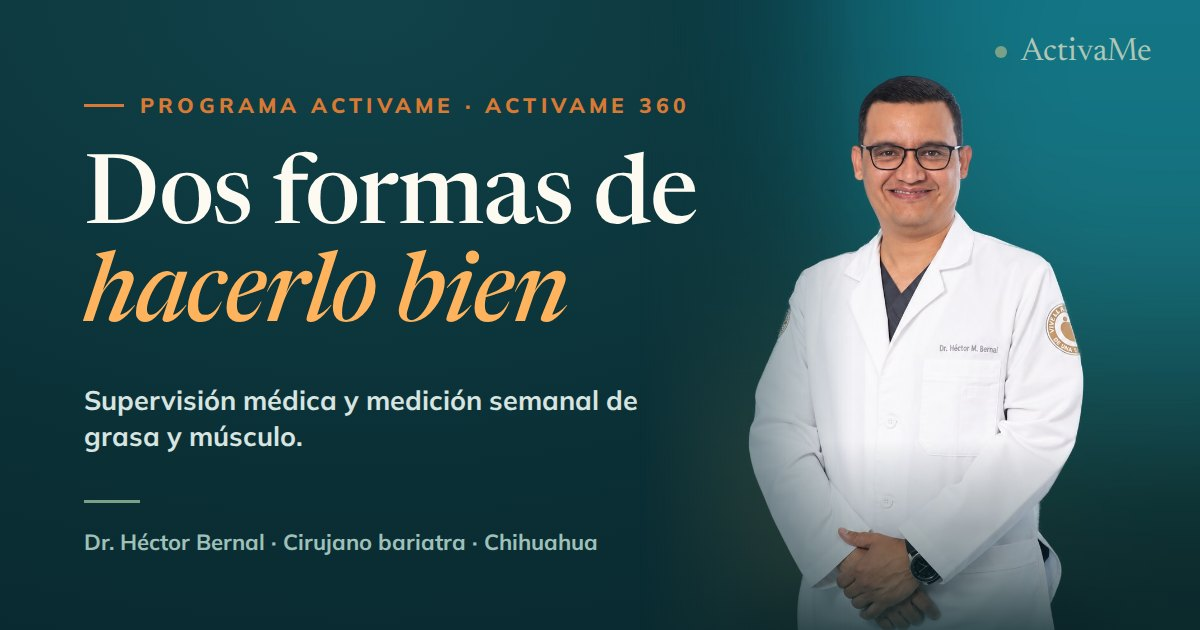
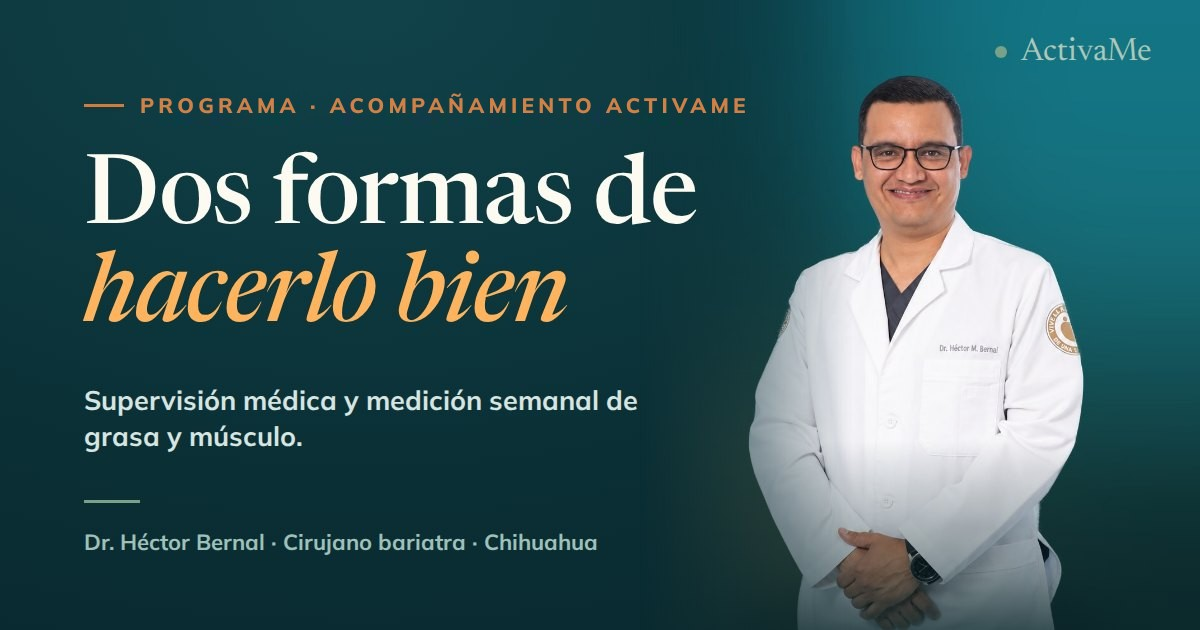
Renombra ActivaMe 360 a Acompañamiento ActivaMe
- index.html y programa/index.html: hero, cabeceras, comparativa, FAQ,
  pasos, title, meta/og/twitter description, og:image:alt y mensajes
  prellenados de WhatsApp. Se conservan el ancla #activame-360, la clase
  .a360 y los data-cta de analítica.
- Tarjetas de dos opciones: lema en <em> ("Tu fisiología como método." /
  "Contigo en cada aplicación.") y título "Acompañamiento ActivaMe".
- Cierre de la comparativa: "El Acompañamiento te cuida mientras usas el
  medicamento. El Programa te prepara para cuando ya no lo uses."
- og-programas.jpg: eyebrow regenerado ("PROGRAMA · ACOMPAÑAMIENTO
  ACTIVAME"); og:image con ?v=2 para refrescar cachés de redes.

Claude-Session: https://claude.ai/code/session_01XgC7FitqPDwxyCZQtsivrR

Changed region(s): [[0.1233, 0.1508, 0.6167, 0.181]]

diff --git a/programa/index.html b/programa/index.html
@@ -3,25 +3,25 @@
 <head>
 <meta charset="UTF-8">
 <meta name="viewport" content="width=device-width, initial-scale=1.0">
-<title>Programa ActivaMe y ActivaMe 360 · Dos formas de hacerlo bien</title>
-<meta name="description" content="Dos formas de bajar de peso con supervisión médica en Chihuahua: el Programa ActivaMe de 10 semanas para activar tu GLP-1 natural, o ActivaMe 360, pago por aplicación si usas tu medicamento.">
+<title>Programa ActivaMe y Acompañamiento ActivaMe · Dos formas de hacerlo bien</title>
+<meta name="description" content="Dos formas de bajar de peso con supervisión médica en Chihuahua: el Programa ActivaMe de 10 semanas para activar tu GLP-1 natural, o el Acompañamiento ActivaMe, pago por aplicación si usas tu medicamento.">
 <link rel="canonical" href="https://consulta.activame.mx/programa">
 
 <!-- Open Graph / WhatsApp preview -->
 <meta property="og:type" content="website">
 <meta property="og:url" content="https://consulta.activame.mx/programa">
 <meta property="og:title" content="Dos formas de hacerlo bien · ActivaMe">
-<meta property="og:description" content="Programa ActivaMe de 10 semanas o ActivaMe 360 pago por aplicación. Supervisión médica, InBody 970s y dinamometría en Chihuahua con el Dr. Héctor Bernal.">
-<meta property="og:image" content="https://consulta.activame.mx/og-programas.jpg">
+<meta property="og:description" content="Programa ActivaMe de 10 semanas o el Acompañamiento ActivaMe con pago por aplicación. Supervisión médica, InBody 970s y dinamometría en Chihuahua con el Dr. Héctor Bernal.">
+<meta property="og:image" content="https://consulta.activame.mx/og-programas.jpg?v=2">
 <meta property="og:image:width" content="1200">
 <meta property="og:image:height" content="630">
-<meta property="og:image:alt" content="Dr. Héctor Bernal. Programa ActivaMe y ActivaMe 360: dos formas de hacerlo bien.">
+<meta property="og:image:alt" content="Dr. Héctor Bernal. Programa ActivaMe y Acompañamiento ActivaMe: dos formas de hacerlo bien.">
 <meta property="og:locale" content="es_MX">
 <meta property="og:site_name" content="ActivaMe">
 <meta name="twitter:card" content="summary_large_image">
 <meta name="twitter:title" content="Dos formas de hacerlo bien · ActivaMe">
-<meta name="twitter:description" content="Programa ActivaMe de 10 semanas o ActivaMe 360 pago por aplicación, con supervisión médica en Chihuahua.">
-<meta name="twitter:image" content="https://consulta.activame.mx/og-programas.jpg">
+<meta name="twitter:description" content="Programa ActivaMe de 10 semanas o el Acompañamiento ActivaMe con pago por aplicación. Supervisión médica en Chihuahua.">
+<meta name="twitter:image" content="https://consulta.activame.mx/og-programas.jpg?v=2">
 
 <link rel="preconnect" href="https://fonts.googleapis.com">
 <link rel="preconnect" href="https://fonts.gstatic.com" crossorigin>
@@ -327,7 +327,7 @@ h2{font-size:clamp(1.75rem,5.6vw,2.7rem);color:var(--teal-deep);max-width:22ch}
 .price-inc{margin-top:1rem;font-size:.92rem;color:#bcd4cf;line-height:1.55;max-width:60ch}
 .price-card .cta{margin-top:1.6rem}
 
-/* ---------- 3 · ACTIVAME 360 ---------- */
+/* ---------- 3 · ACOMPAÑAMIENTO ACTIVAME ---------- */
 .a360{background:radial-gradient(120% 120% at 70% 0%,#11424a 0%,#0a2f35 60%,#08252a 100%);color:var(--cream)}
 .a360 h2{color:#fdfaf2}
 .a360 .sec-intro{color:#bcd4cf}
@@ -556,17 +556,17 @@ footer .aviso{
       <div class="opts">
         <article class="opt">
           <h2>Programa ActivaMe · 10&nbsp;semanas</h2>
-          <p>Todo incluido para activar tu GLP-1 natural y transformar tus hábitos.</p>
+          <p><em>Tu fisiología como método.</em> Todo incluido para activar tu GLP-1 natural y transformar tus hábitos.</p>
           <p class="opt-price">$24,900 en un pago
             <span class="opt-price-sub">o $15,000 + 7 pagos semanales de&nbsp;$1,500</span></p>
           <a href="#programa-activame"><span>Ver el programa</span> <b aria-hidden="true">→</b></a>
         </article>
         <article class="opt">
-          <h2>ActivaMe 360 · pago por aplicación</h2>
-          <p>Tu medicamento con supervisión médica completa: medimos, ajustamos y te acompañamos en cada aplicación.</p>
+          <h2>Acompañamiento ActivaMe</h2>
+          <p><em>Contigo en cada aplicación.</em> Tu medicamento con supervisión médica completa: medimos, ajustamos y te acompañamos.</p>
           <p class="opt-price">desde $1,200 por aplicación
             <span class="opt-price-sub">pagas solo la aplicación que recibes</span></p>
-          <a href="#activame-360"><span>Ver ActivaMe 360</span> <b aria-hidden="true">→</b></a>
+          <a href="#activame-360"><span>Ver el acompañamiento</span> <b aria-hidden="true">→</b></a>
         </article>
       </div>
       <p class="opts-note">
@@ -705,17 +705,17 @@ footer .aviso{
   </div>
 </section>
 
-<!-- ============ 3 · ACTIVAME 360 ============ -->
+<!-- ============ 3 · ACOMPAÑAMIENTO ACTIVAME ============ -->
 <section class="a360" id="activame-360">
   <div class="wrap">
-    <h2 class="pg-title reveal">ActivaMe 360</h2>
+    <h2 class="pg-title reveal">Acompañamiento ActivaMe</h2>
     <p class="pg-tag reveal">Pago por aplicación ·&nbsp;supervisión en cada una</p>
     <h3 class="pg-lema reveal" style="--d:.04s">Si ya usas tu medicamento o estás pensando en iniciarlo, no tienes por qué hacerlo solo.</h3>
     <p class="sec-intro reveal" style="--d:.06s">
       Cada vez más personas se aplican su tratamiento sin supervisión. Bajan de peso, pero no saben
       si están perdiendo grasa o músculo, si su dosis es la correcta o qué hacer cuando algo no se
       siente bien. Si estás por empezar, este es el mejor momento para hacerlo bien desde el primer
-      día. ActivaMe 360 es supervisión médica completa en cada aplicación, y pagas solo la aplicación que recibes.
+      día. El Acompañamiento ActivaMe es supervisión médica completa en cada aplicación, y pagas solo la aplicación que recibes.
     </p>
 
     <h3 class="sub-h reveal">En cada aplicación</h3>
@@ -778,7 +778,7 @@ footer .aviso{
     <p class="remate reveal">Bajar de peso no es lo mismo que bajar de peso bien.</p>
 
     <a class="cta cta--block reveal" href="https://wa.me/526144078343" data-cta="360"
-       data-msg="Hola, me interesa ActivaMe 360">Quiero ActivaMe 360</a>
+       data-msg="Hola, me interesa el Acompañamiento ActivaMe">Quiero el Acompañamiento ActivaMe</a>
   </div>
 </section>
 
@@ -795,7 +795,7 @@ footer .aviso{
           <tr>
             <th scope="col"><span class="sr">Concepto</span></th>
             <th scope="col">Programa ActivaMe</th>
-            <th scope="col">ActivaMe 360</th>
+            <th scope="col">Acompañamiento ActivaMe</th>
           </tr>
         </thead>
         <tbody>
@@ -816,14 +816,14 @@ footer .aviso{
     </div>
 
     <p class="cmp-cierre reveal">
-      ActivaMe 360 te cuida mientras usas el medicamento. El Programa ActivaMe te prepara para cuando ya no lo uses.
+      El Acompañamiento te cuida mientras usas el medicamento. El Programa te prepara para cuando ya no lo uses.
       <em>¿Cuál de los dos necesitas hoy?</em>
     </p>
     <div class="cta-pair reveal">
       <a class="cta" href="https://wa.me/526144078343" data-cta="comparar_programa"
          data-msg="Hola, me interesa el Programa ActivaMe de 10 semanas">Quiero el Programa ActivaMe</a>
       <a class="cta" href="https://wa.me/526144078343" data-cta="comparar_360"
-         data-msg="Hola, me interesa ActivaMe 360">Quiero ActivaMe 360</a>
+         data-msg="Hola, me interesa el Acompañamiento ActivaMe">Quiero el Acompañamiento ActivaMe</a>
     </div>
   </div>
 </section>
@@ -853,7 +853,7 @@ footer .aviso{
         <div class="n">3</div>
         <div>
           <b>Inicias el programa que elegiste</b>
-          <p>Programa ActivaMe o ActivaMe 360.</p>
+          <p>El Programa ActivaMe o el Acompañamiento ActivaMe.</p>
         </div>
       </div>
     </div>
@@ -874,9 +874,9 @@ footer .aviso{
 
     <div class="faq-list">
       <details class="reveal" style="--d:.06s">
-        <summary>¿Puedo empezar en ActivaMe 360 y pasarme después al Programa?</summary>
+        <summary>¿Puedo empezar en el Acompañamiento ActivaMe y pasarme después al Programa?</summary>
         <div class="faq-a">
-          <!-- PENDIENTE: confirmar si las aplicaciones pagadas de ActivaMe 360 se abonan al Programa. -->
+          <!-- PENDIENTE: confirmar si las aplicaciones pagadas del Acompañamiento ActivaMe se abonan al Programa. -->
           <p>Sí, en cualquier momento; lo ves con el equipo en tu siguiente aplicación.</p>
         </div>
       </details>
@@ -896,7 +896,7 @@ footer .aviso{
       <details class="reveal" style="--d:.1s">
         <summary>¿Qué formas de pago aceptan?</summary>
         <div class="faq-a">
-          <p>Efectivo y tarjeta de crédito o débito, directamente en la clínica. En ActivaMe 360
+          <p>Efectivo y tarjeta de crédito o débito, directamente en la clínica. En el Acompañamiento ActivaMe
           pagas cada aplicación al momento.</p>
         </div>
       </details>
@@ -908,7 +908,7 @@ footer .aviso{
           tirzepatida son náusea, estreñimiento, diarrea o sensación de llenado rápido,
           sobre todo en las primeras semanas o al subir de dosis.</p>
           <!-- Adaptado de /programa: allá dice "dosis bajas, de 2.5 a 5 mg", que
-               contradiría la tabla de ActivaMe 360 (hasta 10 mg). -->
+               contradiría la tabla del Acompañamiento ActivaMe (hasta 10 mg). -->
           <p>Por eso la dosis la indica el médico y hay seguimiento en cada visita:
           si algo te está molestando, no esperas un mes para decirlo, lo vemos en tu siguiente
           visita y ajustamos. Hay efectos poco frecuentes pero más serios que se revisan contigo

diff --git a/index.html b/index.html
@@ -700,7 +700,7 @@ body.has-sticky-bottom{padding-bottom:var(--sticky-h,72px)}
       <div class="pillar reveal" style="--d:.22s">
         <span class="num">03</span>
         <h3>Medición en cada cita</h3>
-        <p>Composición corporal con InBody 970s y fuerza con dinamometría en cada consulta semanal del Programa y en cada aplicación de ActivaMe 360: sabes si estás perdiendo grasa y cuidando tu músculo.</p>
+        <p>Composición corporal con InBody 970s y fuerza con dinamometría en cada consulta semanal del Programa y en cada aplicación del Acompañamiento ActivaMe: sabes si estás perdiendo grasa y cuidando tu músculo.</p>
         <span class="chip">Datos reales</span>
       </div>
       <div class="pillar reveal" style="--d:.28s">
@@ -773,7 +773,7 @@ body.has-sticky-bottom{padding-bottom:var(--sticky-h,72px)}
       <div class="opts">
         <article class="opt">
           <h3>Programa ActivaMe · 10&nbsp;semanas</h3>
-          <p class="opt-desc">Todo incluido para activar tu GLP-1 natural y transformar tus hábitos.</p>
+          <p class="opt-desc"><em>Tu fisiología como método.</em> Todo incluido para activar tu GLP-1 natural y transformar tus hábitos.</p>
           <p class="opt-price"><span class="opt-ref">Valor de referencia $29,900</span>$24,900 en un pago
             <span class="opt-price-sub">o $15,000 + 7 pagos semanales de&nbsp;$1,500</span></p>
           <ul class="opt-list">
@@ -786,8 +786,8 @@ body.has-sticky-bottom{padding-bottom:var(--sticky-h,72px)}
           </ul>
         </article>
         <article class="opt">
-          <h3>ActivaMe 360 · pago por aplicación</h3>
-          <p class="opt-desc">Tu medicamento con supervisión médica completa: medimos, ajustamos y te acompañamos en cada aplicación.</p>
+          <h3>Acompañamiento ActivaMe</h3>
+          <p class="opt-desc"><em>Contigo en cada aplicación.</em> Tu medicamento con supervisión médica completa: medimos, ajustamos y te acompañamos.</p>
           <p class="opt-price">desde $1,200 por aplicación
             <span class="opt-price-sub">pagas solo la aplicación que recibes</span></p>
           <ul class="opt-list">
@@ -819,7 +819,7 @@ body.has-sticky-bottom{padding-bottom:var(--sticky-h,72px)}
           <tr>
             <th scope="col"><span class="sr">Concepto</span></th>
             <th scope="col">Programa ActivaMe</th>
-            <th scope="col">ActivaMe 360</th>
+            <th scope="col">Acompañamiento ActivaMe</th>
           </tr>
         </thead>
         <tbody>
@@ -839,7 +839,7 @@ body.has-sticky-bottom{padding-bottom:var(--sticky-h,72px)}
       </table>
     </div>
 
-    <p class="cmp-cierre reveal">ActivaMe 360 te cuida mientras usas el medicamento. El Programa ActivaMe te prepara para cuando ya no lo uses.</p>
+    <p class="cmp-cierre reveal">El Acompañamiento te cuida mientras usas el medicamento. El Programa te prepara para cuando ya no lo uses.</p>
   </div>
 </section>
 
@@ -850,16 +850,16 @@ body.has-sticky-bottom{padding-bottom:var(--sticky-h,72px)}
     <h2 class="reveal" style="--d:.05s">Antes de apartar tu consulta</h2>
     <div class="faq-list">
       <details class="reveal" style="--d:.08s">
-        <summary>¿Puedo empezar en ActivaMe 360 y pasarme después al Programa?</summary>
+        <summary>¿Puedo empezar en el Acompañamiento ActivaMe y pasarme después al Programa?</summary>
         <div class="faq-a">
-          <!-- PENDIENTE: confirmar si las aplicaciones pagadas de ActivaMe 360 se abonan al Programa. -->
+          <!-- PENDIENTE: confirmar si las aplicaciones pagadas del Acompañamiento ActivaMe se abonan al Programa. -->
           <p>Sí, en cualquier momento; lo ves con el equipo en tu siguiente aplicación.</p>
         </div>
       </details>
       <details class="reveal" style="--d:.1s">
         <summary>¿Qué formas de pago aceptan?</summary>
         <div class="faq-a">
-          <p>Efectivo y tarjeta de crédito o débito, directamente en la clínica. En ActivaMe 360
+          <p>Efectivo y tarjeta de crédito o débito, directamente en la clínica. En el Acompañamiento ActivaMe
           pagas cada aplicación al momento. Los estudios de laboratorio, si el médico los indica,
           se cobran aparte.</p>
         </div>
@@ -872,14 +872,14 @@ body.has-sticky-bottom{padding-bottom:var(--sticky-h,72px)}
 <section class="accion" id="accion">
   <div class="wrap">
     <h2 class="reveal">No vendemos inyecciones. Diseñamos fisiología.</h2>
-    <p class="sub reveal" style="--d:.08s">Aparta tu consulta con el Dr. Bernal: es el primer paso tanto para el Programa ActivaMe como para ActivaMe 360. Si prefieres entender tu caso antes, haz el quiz GLP-1 en 3 minutos.</p>
+    <p class="sub reveal" style="--d:.08s">Aparta tu consulta con el Dr. Bernal: es el primer paso tanto para el Programa ActivaMe como para el Acompañamiento ActivaMe. Si prefieres entender tu caso antes, haz el quiz GLP-1 en 3 minutos.</p>
     <div class="cta-group reveal" style="--d:.14s">
       <a class="cta" href="https://buy.stripe.com/eVqeVd7GMeXt3sk5te3oA05"
          data-cta-location="footer" data-cta-target="consulta">Apartar mi consulta <span class="price">$1,000</span></a>
       <a class="cta-secondary" href="#quiz"
          data-cta-location="footer" data-cta-target="quiz">Hacer el quiz GLP-1</a>
     </div>
-    <p class="fine reveal" style="--d:.2s">Tu lugar se aparta al momento del pago. Es un servicio médico independiente, no un anticipo del Programa ActivaMe ni de ActivaMe 360. Si necesitas mover tu cita, puedes reagendar sin costo hasta 24 h antes.</p>
+    <p class="fine reveal" style="--d:.2s">Tu lugar se aparta al momento del pago. Es un servicio médico independiente, no un anticipo del Programa ActivaMe ni del Acompañamiento ActivaMe. Si necesitas mover tu cita, puedes reagendar sin costo hasta 24 h antes.</p>
   </div>
 </section>
 
